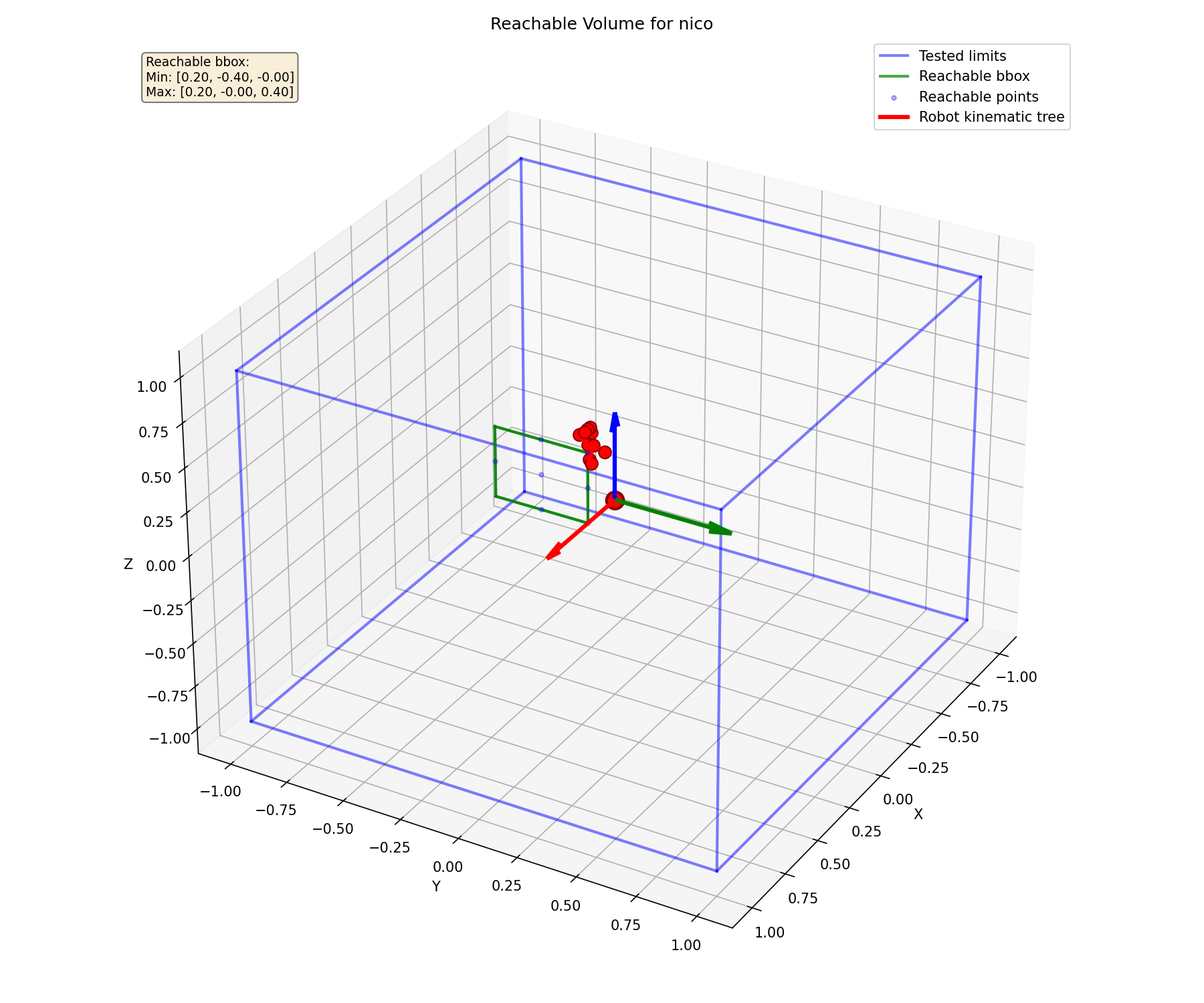
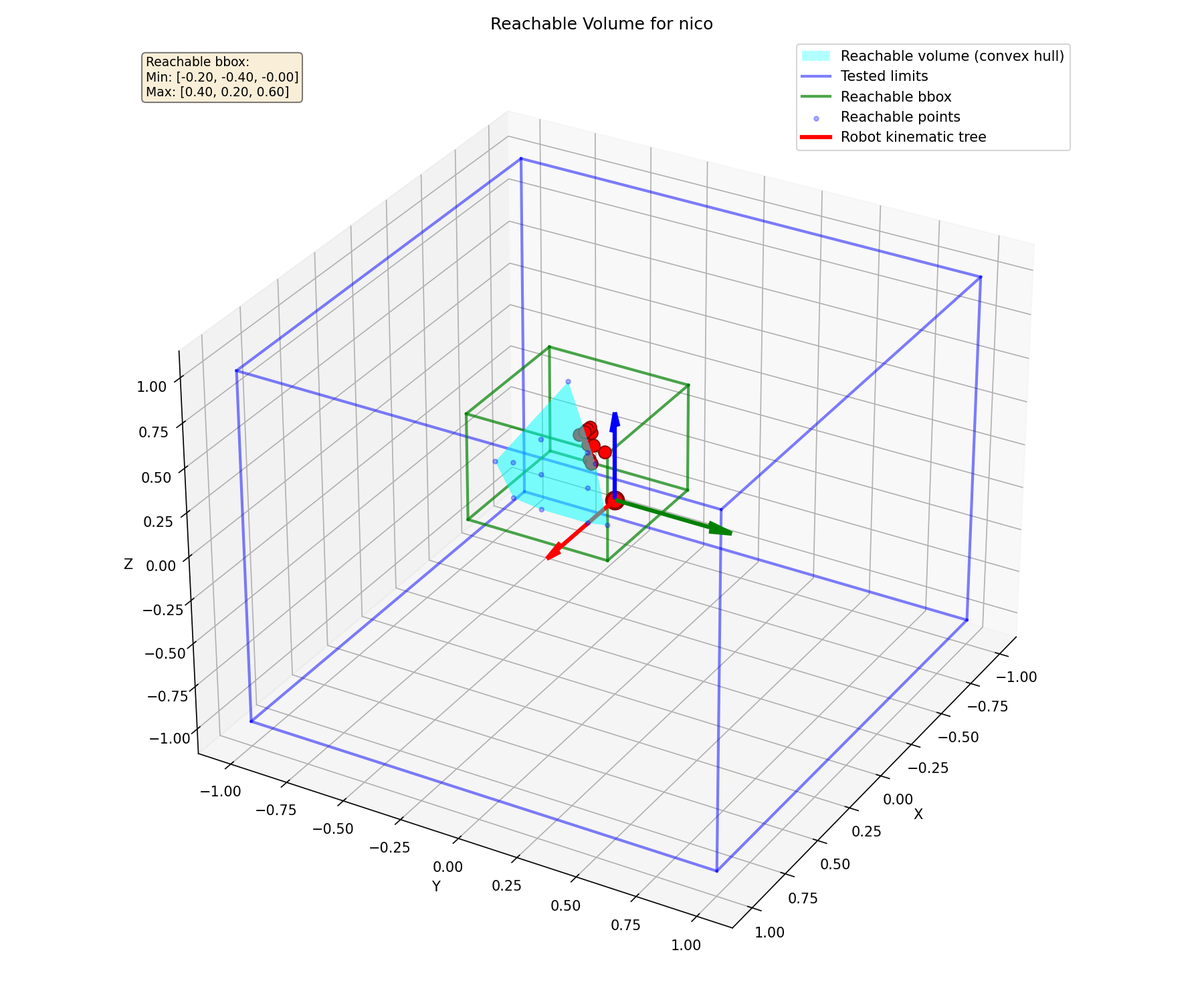
new reahable area for all grasp types calculated and stored in helpers

diff --git a/myGym/utils/helpers.py b/myGym/utils/helpers.py
@@ -60,38 +60,38 @@ def get_workspace_dict():
 
 def get_robot_dict():
     r_dict =   {
-                             'g1': {'path': '/envs/robots/unitree/g1_mygym.urdf', 'position': np.array([-0.3, 0.0, 0.07]), 'orientation': [0.0, 0.0, 0.0], 'default_joint_ori': [0.33, -0.11, -0.16, 0.69, -1.42, -0.89, -0.17, -0.01, 0.19, 0.39, 0.72, 0.0, 0.0], 'ee_pos': [0.0, -0.2734, 0.3939], 'ee_ori': [-0.0075, -0.0165, 0.049], 'ee_quat_ori': [-0.0035, -0.0083, 0.0245, 0.9997], 'fixed': True, 'volume': [[-0.8, -0.6, -0.0], [0.4, 0.2, 0.8]]},
-                             'g16DOF': {'path': '/envs/robots/unitree/g1_mygym6DOFG.urdf', 'position': np.array([-0.3, 0.0, 0.07]), 'orientation': [0.0, 0.0, 0.0], 'default_joint_ori': [0.33, -0.11, -0.16, 0.69, -1.42, -0.89, -0.17, -0.01, 0.19, 0.39, 0.72, 0.0, 0.0, 0.0, 0.0, 0.0], 'ee_pos': [0.0006, -0.2734, 0.3937], 'ee_ori': [-0.0091, -0.0161, 0.0494], 'ee_quat_ori': [-0.0044, -0.0081, 0.0247, 0.9997], 'fixed': True, 'volume': [[-0.8, -0.6, -0.0], [0.4, 0.2, 0.8]]},
-                             'g1_loose': {'path': '/envs/robots/unitree/g1_mygym_full.urdf', 'position': np.array([-0.3, 0.0, 0.07]), 'orientation': [0.0, 0.0, 0.0], 'default_joint_ori': [0.01, 0.01, -0.01, 0.04, 0.1, 0.35, -0.08, -0.02, -0.18, 0.25, 0.94, 0.17, 0.39, 0.62, -0.2, 0.12, -0.72, 0.0, 0.0, -1.04, -0.72, -0.61, 1.83, -1.85, -0.86, -0.03, 0.72, 0.0, 0.0], 'ee_pos': [0.0129, -0.2624, 0.1747], 'ee_ori': [0.2727, 0.3219, 0.3109], 'ee_quat_ori': [0.108, 0.1776, 0.1299, 0.9695], 'fixed': False},
-                             'g1_rotslide': {'path': '/envs/robots/unitree/g1_mygym_rotslide.urdf', 'position': np.array([-0.3, 0.0, 0.07]), 'orientation': [0.0, 0.0, 0.0], 'default_joint_ori': [-0.11, -0.01, 0.09, 0.25, -0.38, 0.07, -0.66, -0.36, -0.53, 0.29, -1.19, 0.04, 0.59, 0.2, 0.21, 0.06], 'ee_pos': [0.145, -0.1958, 0.4099], 'ee_ori': [-0.0065, 0.0578, 0.0098], 'ee_quat_ori': [-0.0034, 0.0289, 0.005, 0.9996], 'fixed': True, 'volume': [[-1.0, -0.8, -0.0], [0.2, 0.8, 0.8]]},
-                             'gummi': {'path': '/envs/robots/gummi_arm/urdf/gummi.urdf', 'position': np.array([0.0, 0.0, 0.0]), 'orientation': [0.0, 0.0, 0.0], 'default_joint_ori': [-0.34, 0.6, -0.08, 0.03, -0.75, 2.89, -0.83, 0.0, 0.0, 0.0, 0.0, 0.0], 'ee_pos': [0.3804, -0.201, 0.529], 'ee_ori': [-0.0138, 0.0298, -0.0144], 'ee_quat_ori': [-0.0068, 0.0149, -0.0071, 0.9998], 'fixed': True, 'volume': [[-0.6, -0.6, 0.4], [0.4, -0.0, 0.8]]},
+                             'g1': {'path': '/envs/robots/unitree/g1_mygym.urdf', 'position': np.array([-0.3, 0.0, 0.07]), 'orientation': [0.0, 0.0, 0.0], 'default_joint_ori': [0.33, -0.11, -0.16, 0.69, -1.42, -0.89, -0.17, -0.01, 0.19, 0.39, 0.72, 0.0, 0.0], 'ee_pos': [0.0, -0.2734, 0.3939], 'ee_ori': [-0.0075, -0.0165, 0.049], 'ee_quat_ori': [-0.0035, -0.0083, 0.0245, 0.9997], 'fixed': True, 'volume': [[-0.8, -0.6, -0.0], [0.4, 0.2, 0.8]], 'reachable': [-0.8, 0.4, -0.6, 0.2, -0.0, 0.8], 'reachable_top': [-0.4, 0.4, -0.4, -0.0, -0.0, 0.4], 'reachable_left': [-0.4, 0.4, -0.4, 0.4, -0.0, 0.6], 'reachable_right': [-0.4, 0.2, -0.4, 0.2, 0.2, 0.4], 'reachable_back': [-0.8, 0.2, -0.4, 0.4, 0.4, 0.6], 'reachable_front': [-0.6, -0.4, -0.4, 0.4, 0.2, 0.4], 'reachable_bottom': [-0.6, -0.0, -0.2, 0.2, 0.2, 0.4]},
+                             'g16DOF': {'path': '/envs/robots/unitree/g1_mygym6DOFG.urdf', 'position': np.array([-0.3, 0.0, 0.07]), 'orientation': [0.0, 0.0, 0.0], 'default_joint_ori': [0.33, -0.11, -0.16, 0.69, -1.42, -0.89, -0.17, -0.01, 0.19, 0.39, 0.72, 0.0, 0.0, 0.0, 0.0, 0.0], 'ee_pos': [0.0006, -0.2734, 0.3937], 'ee_ori': [-0.0091, -0.0161, 0.0494], 'ee_quat_ori': [-0.0044, -0.0081, 0.0247, 0.9997], 'fixed': True, 'volume': [[-0.8, -0.6, -0.0], [0.4, 0.2, 0.8]], 'reachable': [-0.8, 0.4, -0.6, 0.2, -0.0, 0.8], 'reachable_top': [-0.4, 0.4, -0.4, -0.0, -0.0, 0.4], 'reachable_left': [-0.4, 0.4, -0.4, 0.4, -0.0, 0.6], 'reachable_right': [-0.4, 0.2, -0.4, 0.2, 0.2, 0.4], 'reachable_back': [-0.8, 0.2, -0.4, 0.4, 0.4, 0.6], 'reachable_front': [-0.6, -0.4, -0.4, 0.4, 0.2, 0.4], 'reachable_bottom': [-0.6, -0.0, -0.2, 0.2, 0.2, 0.4]},
+                             'g1_loose': {'path': '/envs/robots/unitree/g1_mygym_full.urdf', 'position': np.array([-0.3, 0.0, 0.07]), 'orientation': [0.0, 0.0, 0.0], 'default_joint_ori': [0.01, 0.01, -0.01, 0.04, 0.1, 0.35, -0.08, -0.02, -0.18, 0.25, 0.94, 0.17, 0.39, 0.62, -0.2, 0.12, -0.72, 0.0, 0.0, -1.04, -0.72, -0.61, 1.83, -1.85, -0.86, -0.03, 0.72, 0.0, 0.0], 'ee_pos': [0.0129, -0.2624, 0.1747], 'ee_ori': [0.2727, 0.3219, 0.3109], 'ee_quat_ori': [0.108, 0.1776, 0.1299, 0.9695], 'fixed': False, 'reachable': [-0.6, -0.6, -0.2, -0.2, 0.4, 0.4]},
+                             'g1_rotslide': {'path': '/envs/robots/unitree/g1_mygym_rotslide.urdf', 'position': np.array([-0.3, 0.0, 0.07]), 'orientation': [0.0, 0.0, 0.0], 'default_joint_ori': [-0.11, -0.01, 0.09, 0.25, -0.38, 0.07, -0.66, -0.36, -0.53, 0.29, -1.19, 0.04, 0.59, 0.2, 0.21, 0.06], 'ee_pos': [0.145, -0.1958, 0.4099], 'ee_ori': [-0.0065, 0.0578, 0.0098], 'ee_quat_ori': [-0.0034, 0.0289, 0.005, 0.9996], 'fixed': True, 'volume': [[-1.0, -0.8, -0.0], [0.2, 0.8, 0.8]], 'reachable': [-1.0, 0.2, -0.8, 0.8, -0.0, 0.8], 'reachable_top': [-0.8, 0.2, -0.6, 0.4, -0.0, 0.4], 'reachable_left': [-1.0, 0.2, -0.6, 0.4, -0.0, 0.6], 'reachable_right': [-0.2, -0.0, 0.2, 0.2, 0.4, 0.4], 'reachable_front': [-1.0, -0.2, -0.4, 0.8, -0.0, 0.2], 'reachable_bottom': [-0.8, -0.2, -0.2, 0.4, 0.4, 0.4]},
+                             'gummi': {'path': '/envs/robots/gummi_arm/urdf/gummi.urdf', 'position': np.array([0.0, 0.0, 0.0]), 'orientation': [0.0, 0.0, 0.0], 'default_joint_ori': [-0.34, 0.6, -0.08, 0.03, -0.75, 2.89, -0.83, 0.0, 0.0, 0.0, 0.0, 0.0], 'ee_pos': [0.3804, -0.201, 0.529], 'ee_ori': [-0.0138, 0.0298, -0.0144], 'ee_quat_ori': [-0.0068, 0.0149, -0.0071, 0.9998], 'fixed': True, 'volume': [[-0.6, -0.6, 0.4], [0.4, -0.0, 0.8]], 'reachable': [-0.6, 0.4, -0.6, -0.0, 0.4, 0.8], 'reachable_top': [-0.4, 0.6, -0.2, -0.2, -0.0, 0.6], 'reachable_left': [0.6, 0.6, -0.4, -0.0, 0.2, 0.2], 'reachable_right': [0.4, 0.6, -0.2, 0.2, -0.0, 0.6], 'reachable_back': [-0.4, 0.6, -0.4, -0.2, 0.2, 0.6], 'reachable_front': [-0.4, 0.6, -0.6, -0.0, -0.2, 0.2], 'reachable_bottom': [-0.6, -0.4, -0.6, -0.4, 0.4, 0.4]},
                              'hsr': {'path': '/envs/robots/hsr/hsrb4s.urdf', 'position': np.array([-0.5, 0.0, -0.72]), 'orientation': [0.0, 0.0, 0.0], 'default_joint_ori': [0.34, 0.01, 0.0, 0.69, -0.66, 0.0, -1.01, -0.01, 0.57, 0.48, 0.26, -0.24, -0.08, 0.29, 0.32, -0.35, -0.2], 'ee_pos': [0.0817, 0.0451, 0.5442], 'ee_ori': [-1.6954, -1.4684, 0.069], 'ee_quat_ori': [-0.541, -0.4623, -0.4851, 0.5083], 'fixed': True},
                              'human': {'path': '/envs/robots/real_hands/humanoid_with_hands.urdf', 'position': np.array([1.7, 0.0, 0.77]), 'orientation': [0.0, 0.0, -1.5707963267948966], 'fixed': True},
-                             'icub': {'path': '/envs/robots/iCub/icub.urdf', 'position': np.array([-0.3, 0.0, 0.0]), 'orientation': [0.0, 0.0, 3.14], 'default_joint_ori': [-1.61, 1.27, 1.4, 1.42, 0.06, 0.44, 0.14, 1.34], 'ee_pos': [0.0008, -0.1995, 0.2007], 'ee_ori': [0.0162, -0.0348, -0.0002], 'ee_quat_ori': [0.0081, -0.0174, 0.0, 0.9998], 'fixed': True, 'volume': [[-0.4, -0.4, 0.2], [-0.0, -0.0, 0.2]]},
-                             'icubfull': {'path': '/envs/robots/iCub/icubfull.urdf', 'position': np.array([-0.3, 0.0, 0.0]), 'orientation': [0.0, 0.0, 3.14], 'default_joint_ori': [0.17, 1.7, -0.12, 0.26, 0.0, 0.0, 0.0, 0.0, 0.0, 0.0, 0.0, 0.0], 'ee_pos': [-0.1479, -0.3618, 0.1984], 'ee_ori': [-1.7368, 0.1746, 2.1151], 'ee_quat_ori': [0.4224, 0.6348, -0.5933, -0.258], 'fixed': True, 'volume': [[-0.4, -0.2, 0.4], [-0.2, -0.2, 0.4]]},
-                             'jaco_gripper': {'path': '/envs/robots/jaco_arm/jaco/urdf/jaco_robotiq_fixed.urdf', 'position': np.array([0.0, 0.0, 0.0]), 'orientation': [0.0, 0.0, 0.0], 'default_joint_ori': [-1.5, 3.56, -0.04, 4.13, -0.03, 0.57, 0.01, 0.0, 0.0, -0.88, -0.88], 'ee_pos': [-0.0005, 0.0014, 0.6214], 'ee_ori': [-0.0005, 0.0001, 0.0002], 'ee_quat_ori': [-0.0003, 0.0, 0.0001, 1.0], 'fixed': True, 'volume': [[-0.8, -0.2, -0.4], [0.8, 0.8, 1.0]]},
-                             'kuka': {'path': '/envs/robots/kuka_magnetic_gripper_sdf/kuka_magnetic.urdf', 'position': np.array([0.0, 0.0, 0.0]), 'orientation': [0.0, 0.0, 0.0], 'default_joint_ori': [0.41, 0.17, 2.59, 0.86, 0.1, -2.09, 3.05], 'ee_pos': [0.4105, -0.0007, 0.7563], 'ee_ori': [-0.0035, -0.0396, 0.0047], 'ee_quat_ori': [-0.0017, -0.0198, 0.0023, 0.9998], 'fixed': True, 'volume': [[-0.6, -0.8, -0.4], [1.0, 0.8, 1.0]]},
-                             'kuka_push': {'path': '/envs/robots/kuka_magnetic_gripper_sdf/kuka_push.urdf', 'position': np.array([0.0, 0.0, 0.0]), 'orientation': [0.0, 0.0, 0.0], 'default_joint_ori': [0.36, -0.13, -0.29, -1.22, -0.05, 2.05, 0.05], 'ee_pos': [0.3053, -0.0, 0.7789], 'ee_ori': [-0.01, 0.0, 0.0046], 'ee_quat_ori': [-0.005, -0.0, 0.0023, 1.0], 'fixed': True, 'volume': [[-0.6, -0.8, -0.4], [0.8, 0.8, 1.0]]},
-                             'kuka_gripper': {'path': '/envs/robots/kuka_gripper/kuka_gripper.urdf', 'position': np.array([0.0, 0.0, 0.0]), 'orientation': [0.0, 0.0, 0.0], 'default_joint_ori': [0.0, -0.38, 0.0, -1.46, 0.0, 2.05, 0.0, 1.57, 0.0, 1.57, 0.0], 'ee_pos': [0.1997, 0.0, 0.7076], 'ee_ori': [0.0, -0.0132, 0.0], 'ee_quat_ori': [0.0, -0.0066, 0.0, 1.0], 'fixed': True, 'volume': [[-0.6, -0.8, -0.4], [1.0, 0.8, 1.0]]},
-                             'leachy': {'path': '/envs/robots/pollen/reachy/urdf/leachy.urdf', 'position': np.array([0.0, 0.0, 0.32]), 'orientation': [0.0, 0.0, 0.0], 'default_joint_ori': [-0.46, 1.1, -1.57, -1.11, 1.53, 0.43, 0.0, 0.0], 'ee_pos': [0.457, 0.3629, 0.4495], 'ee_ori': [0.0433, 0.0434, 0.0087], 'ee_quat_ori': [0.0215, 0.0218, 0.0039, 0.9995], 'fixed': True, 'volume': [[-0.4, -0.2, 0.2], [0.6, 0.6, 0.8]]},
-                             'nico': {'path': '/envs/robots/nico/nico_grasper.urdf', 'position': np.array([0.0, 0.0, 0.0]), 'orientation': [0.0, 0.0, 0.0], 'default_joint_ori': [-0.29, 0.66, 0.78, 1.32, 0.57, 0.79, 0.0, 0.0, 0.0, 0.0], 'ee_pos': [0.1955, -0.2696, 0.2666], 'ee_ori': [0.0952, -0.0253, 0.0274], 'ee_quat_ori': [0.0477, -0.012, 0.0143, 0.9987], 'fixed': True, 'volume': [[0.2, -0.4, -0.0], [0.2, -0.0, 0.4]]},
-                             'panda': {'path': '/envs/robots/franka_emika/panda/urdf/panda1.urdf', 'position': np.array([0.0, 0.0, 0.0]), 'orientation': [0.0, 0.0, 0.0], 'default_joint_ori': [2.97, 0.31, -2.84, -1.86, 1.66, 3.71, 1.91, 0.06, 0.06], 'ee_pos': [0.3262, -0.0002, 0.5358], 'ee_ori': [-0.0006, -0.0093, -0.0079], 'ee_quat_ori': [-0.0003, -0.0047, -0.0039, 1.0], 'fixed': True, 'volume': [[-0.2, -0.2, -0.0], [0.6, 0.2, 1.0]]},
-                             'panda_boxgripper': {'path': '/envs/robots/franka_emika/panda/urdf/panda_cgripper.urdf', 'position': np.array([0.0, 0.0, 0.0]), 'orientation': [0.0, 0.0, 0.0], 'default_joint_ori': [-1.48, -0.36, 0.12, -1.93, 1.61, 3.48, 2.22, 0.1, 0.1], 'ee_pos': [-0.0005, -0.328, 0.4827], 'ee_ori': [-0.0032, -0.0006, -1.5701], 'ee_quat_ori': [-0.0013, 0.0009, -0.7068, 0.7074], 'fixed': True, 'volume': [[-0.4, -0.6, -0.0], [0.4, 0.4, 1.0]]},
-                             'panda_sgripper': {'path': '/envs/robots/franka_emika/panda_moveit/urdf/panda2.urdf', 'position': np.array([0.0, 0.0, 0.0]), 'orientation': [0.0, 0.0, 0.0], 'default_joint_ori': [0.0, -0.77, 0.0, -1.14, 0.0, 0.41, 0.91, 0.04, 0.04], 'ee_pos': [-0.0026, 0.0, 0.8018], 'ee_ori': [-0.005, 0.0381, 3.0169], 'ee_quat_ori': [-0.0192, -0.0013, 0.9979, 0.0622], 'fixed': True, 'volume': [[-0.4, -0.6, -0.2], [0.8, 0.6, 1.0]]},
-                             'panda_gripper': {'path': '/envs/robots/franka_emika/panda_bullet/panda.urdf', 'position': np.array([0.0, 0.0, 0.0]), 'orientation': [0.0, 0.0, 0.0], 'default_joint_ori': [-0.28, -0.84, 0.0, -1.3, 0.0, 0.45, 2.86, 0.07, 0.07], 'ee_pos': [0.0022, -0.0006, 0.7782], 'ee_ori': [0.0028, 0.008, 0.0016], 'ee_quat_ori': [0.0014, 0.004, 0.0008, 1.0], 'fixed': True, 'volume': [[-0.4, -0.6, -0.2], [0.8, 0.6, 1.0]]},
-                             'pepper': {'path': '/envs/robots/pepper/pepper.urdf', 'position': np.array([-0.2, 0.0, -0.72]), 'orientation': [0.0, 0.0, 0.0], 'default_joint_ori': [-1.37, -0.24, -1.52, 1.54, 1.34, 1.57, 1.57, 1.57, 1.57], 'ee_pos': [0.0005, -0.2104, 0.3316], 'ee_ori': [0.0064, 0.0064, 0.0043], 'ee_quat_ori': [0.0032, 0.0032, 0.0021, 1.0], 'fixed': True, 'volume': [[-0.2, -0.4, 0.2], [-0.0, -0.0, 0.4]]},
-                             'reachy': {'path': '/envs/robots/pollen/reachy/urdf/reachy.urdf', 'position': np.array([0.0, 0.0, 0.0]), 'orientation': [0.0, 0.0, 0.0], 'default_joint_ori': [1.51, -2.8, 1.27, -1.44, -0.94, -1.22, 1.0, 0.0, 0.0], 'ee_pos': [0.0941, -0.4512, 0.4093], 'ee_ori': [0.007, 0.0032, 0.0013], 'ee_quat_ori': [0.0035, 0.0016, 0.0006, 1.0], 'fixed': True, 'volume': [[-0.0, -0.6, -0.0], [0.4, -0.2, 0.8]]},
-                             'tiago_single': {'path': '/envs/robots/tiago/tiago_pal_gripper.urdf', 'position': np.array([-0.3, 0.0, -0.72]), 'orientation': [0.0, 0.0, 0.0], 'default_joint_ori': [0.33, 0.0, 1.09, -0.71, 1.21, -1.86, 1.57, -0.93, 0.05, 0.05], 'ee_pos': [0.0078, -0.5147, 0.374], 'ee_ori': [0.0217, -0.0042, 0.0149], 'ee_quat_ori': [0.0109, -0.002, 0.0075, 0.9999], 'fixed': True, 'volume': [[-0.0, -0.8, -0.0], [0.6, 0.6, 0.6]]},
-                             'tiago_dual': {'path': '/envs/robots/tiago/tiago_dual_mygym.urdf', 'position': np.array([-0.3, 0.0, -0.72]), 'orientation': [0.0, 0.0, 0.0], 'default_joint_ori': [0.35, 0.11, -1.18, 1.61, 1.72, 1.18, -1.41, 1.7, 0.05, 0.05], 'ee_pos': [0.0009, -0.3985, 0.3127], 'ee_ori': [0.0074, -0.0071, 0.001], 'ee_quat_ori': [0.0037, -0.0036, 0.0005, 1.0], 'fixed': True, 'volume': [[-0.8, -1.0, -0.0], [0.6, 0.2, 0.6]]},
-                             'tiago_dual_fix': {'path': '/envs/robots/tiago/tiago_dual_mygym_fix.urdf', 'position': np.array([-0.3, 0.0, -0.72]), 'orientation': [0.0, 0.0, 0.0], 'default_joint_ori': [0.18, 0.12, -1.18, 1.62, 1.72, 1.18, -1.41, 1.7, 0.05, 0.05], 'ee_pos': [0.0022, -0.3983, 0.1365], 'ee_ori': [0.0069, -0.0033, 0.0018], 'ee_quat_ori': [0.0035, -0.0017, 0.0009, 1.0], 'fixed': True, 'volume': [[-0.6, -0.8, 0.2], [0.4, 0.2, 0.4]]},
-                             'tiago_dual_rot': {'path': '/envs/robots/tiago/tiago_dual_mygym_rot.urdf', 'position': np.array([-0.3, 0.0, -0.72]), 'orientation': [0.0, 0.0, 0.0], 'default_joint_ori': [0.0, 0.35, 0.11, -1.18, 1.61, 1.72, 1.18, -1.41, 1.7, 0.05, 0.05], 'ee_pos': [0.0009, -0.3985, 0.3127], 'ee_ori': [0.0074, -0.0071, 0.0011], 'ee_quat_ori': [0.0037, -0.0036, 0.0005, 1.0], 'fixed': True, 'volume': [[-1.0, -1.0, -0.0], [0.8, 0.8, 0.6]]},
-                             'tiago_dual_rotslide': {'path': '/envs/robots/tiago/tiago_dual_mygym_rotslide.urdf', 'position': np.array([-0.3, 0.0, -0.72]), 'orientation': [0.0, 0.0, 0.0], 'default_joint_ori': [0.0, 0.0, 0.35, 0.11, -1.18, 1.61, 1.72, 1.18, -1.41, 1.7, 0.05, 0.05], 'ee_pos': [0.0009, -0.3985, 0.3127], 'ee_ori': [0.0074, -0.0071, 0.0011], 'ee_quat_ori': [0.0037, -0.0036, 0.0005, 1.0], 'fixed': True, 'volume': [[-0.6, -1.0, -0.0], [0.8, 0.4, 0.4]]},
-                             'tiago_dual_rotslide2': {'path': '/envs/robots/tiago/tiago_dual_mygym_rotslide2.urdf', 'position': np.array([-0.3, 0.0, -0.72]), 'orientation': [0.0, 0.0, 0.0], 'default_joint_ori': [0.0, 0.0, 0.0, 0.35, 0.11, -1.18, 1.61, 1.72, 1.18, -1.41, 1.7, 0.05, 0.05], 'ee_pos': [0.0009, -0.3985, 0.3127], 'ee_ori': [0.0074, -0.0071, 0.001], 'ee_quat_ori': [0.0037, -0.0036, 0.0005, 1.0], 'fixed': True, 'volume': [[-1.0, -1.0, -0.0], [-0.0, 0.2, 0.2]]},
-                             'ur3': {'path': '/envs/robots/universal_robots/urdf/ur3.urdf', 'position': np.array([0.0, -0.02, -0.041]), 'orientation': [0.0, 0.0, 0.0], 'default_joint_ori': [0.6, -1.9, 0.67, -0.34, -1.57, 0.6], 'ee_pos': [-0.0, 0.1158, 0.4104], 'ee_ori': [-0.0, 0.0001, -0.0], 'ee_quat_ori': [-0.0, 0.0, -0.0, 1.0], 'fixed': True, 'volume': [[-0.2, -0.2, -0.0], [0.4, 0.2, 0.4]]},
-                             'ur10': {'path': '/envs/robots/universal_robots/urdf/ur10.urdf', 'position': np.array([0.0, 0.0, 0.0]), 'orientation': [0.0, 0.0, 0.0], 'default_joint_ori': [-1.34, -2.16, 1.07, -0.48, -1.57, -1.34], 'ee_pos': [0.1686, 0.0, 1.0], 'ee_ori': [-0.0003, 0.0, -0.0], 'ee_quat_ori': [-0.0001, 0.0, -0.0, 1.0], 'fixed': True, 'volume': [[-1.0, -1.0, -1.0], [1.0, 1.0, 1.0]]},
-                             'walker': {'path': '/envs/robots/ubtech/tiangong2pro_urdf/urdf/tiangong2.0_pro_with_hands.urdf', 'position': np.array([-0.3, 0.0, 0.0]), 'orientation': [0.0, 0.0, 0], 'default_joint_ori': [-0.01, 0.79, -1.68, -1.22, -1.92, -0.14, 0.48, 0.38, -0.0, 0.35, 0.18, 0.09, 0.08], 'ee_pos': [0.1479, -0.4106, 0.4994], 'ee_ori': [0.0004, 0.013, 0.0004], 'ee_quat_ori': [0.0002, 0.0065, 0.0002, 1.0], 'volume': [[-1.0, -0.8, -0.0], [0.6, 0.6, 1.0]]},
-                             'S2': {'path': '/envs/robots/ubtech/S2.urdf', 'position': np.array([-0.3, 0.0, 0.2]), 'orientation': [0.0, 0.0, 0], 'default_joint_ori': [-0.04, 0.35, -1.41, -0.34, -1.56, 0.07, -0.09, 0.06, 0.34, 0.07, 0.07, 0.08, 0.76], 'ee_pos': [0.1209, -0.5598, 0.4936], 'ee_ori': [-0.0011, 0.0755, -0.0131], 'ee_quat_ori': [-0.0003, 0.0378, -0.0065, 0.9993], 'volume': [[-1.0, -0.8, -0.0], [0.6, 0.8, 1.0]]},
-                             'yumi': {'path': '/envs/robots/abb/yumi/urdf/yumi.urdf', 'position': np.array([0.0, 0.0, 0.0]), 'orientation': [0.0, 0.0, 0.0], 'default_joint_ori': [-0.4, -2.29, -0.13, 0.19, -0.95, 2.41, -3.99, 0.02, 0.02, 1.08, -1.68, 1.05, -0.09, 0.49, 2.07, -1.51, 0.03, 0.02], 'ee_pos': [-0.0006, 0.3054, 0.7052], 'ee_ori': [-0.0, 0.0001, 0.0001], 'ee_quat_ori': [-0.0, 0.0, 0.0001, 1.0], 'fixed': True},
+                             'icub': {'path': '/envs/robots/iCub/icub.urdf', 'position': np.array([-0.3, 0.0, 0.0]), 'orientation': [0.0, 0.0, 3.14], 'default_joint_ori': [-1.61, 1.27, 1.4, 1.42, 0.06, 0.44, 0.14, 1.34], 'ee_pos': [0.0008, -0.1995, 0.2007], 'ee_ori': [0.0162, -0.0348, -0.0002], 'ee_quat_ori': [0.0081, -0.0174, 0.0, 0.9998], 'fixed': True, 'volume': [[-0.4, -0.4, 0.2], [-0.0, -0.0, 0.2]], 'reachable': [-0.4, -0.0, -0.4, -0.0, 0.2, 0.2], 'reachable_top': [-0.0, -0.0, -0.2, -0.0, 0.2, 0.2], 'reachable_left': [-0.2, -0.0, -0.4, -0.2, 0.2, 0.2], 'reachable_right': [-0.0, -0.0, -0.2, -0.2, 0.2, 0.2], 'reachable_back': [-0.4, -0.2, -0.4, -0.2, 0.4, 0.4]},
+                             'icubfull': {'path': '/envs/robots/iCub/icubfull.urdf', 'position': np.array([-0.3, 0.0, 0.0]), 'orientation': [0.0, 0.0, 3.14], 'default_joint_ori': [0.17, 1.7, -0.12, 0.26, 0.0, 0.0, 0.0, 0.0, 0.0, 0.0, 0.0, 0.0], 'ee_pos': [-0.1479, -0.3618, 0.1984], 'ee_ori': [-1.7368, 0.1746, 2.1151], 'ee_quat_ori': [0.4224, 0.6348, -0.5933, -0.258], 'fixed': True, 'volume': [[-0.4, -0.2, 0.4], [-0.2, -0.2, 0.4]], 'reachable': [-0.4, -0.2, -0.2, -0.2, 0.4, 0.4], 'reachable_right': [-0.0, -0.0, -0.2, -0.2, -0.0, -0.0], 'reachable_back': [-0.0, -0.0, -0.0, -0.0, -0.0, -0.0]},
+                             'jaco_gripper': {'path': '/envs/robots/jaco_arm/jaco/urdf/jaco_robotiq_fixed.urdf', 'position': np.array([0.0, 0.0, 0.0]), 'orientation': [0.0, 0.0, 0.0], 'default_joint_ori': [-1.5, 3.56, -0.04, 4.13, -0.03, 0.57, 0.01, 0.0, 0.0, -0.88, -0.88], 'ee_pos': [-0.0005, 0.0014, 0.6214], 'ee_ori': [-0.0005, 0.0001, 0.0002], 'ee_quat_ori': [-0.0003, 0.0, 0.0001, 1.0], 'fixed': True, 'volume': [[-0.8, -0.2, -0.4], [0.8, 0.8, 1.0]], 'reachable': [-0.8, 0.8, -0.2, 0.8, -0.4, 1.0], 'reachable_top': [-0.6, 0.6, -0.2, 0.6, -0.6, 0.6], 'reachable_left': [-0.6, 0.6, -0.4, 1.0, -0.4, 1.0], 'reachable_right': [-0.6, 0.6, -0.8, 0.2, -0.4, 0.8], 'reachable_back': [-0.4, 1.0, -0.6, 0.6, -0.2, 1.0], 'reachable_front': [-1.0, 0.2, -0.6, 0.6, -0.2, 1.0], 'reachable_bottom': [-0.6, 0.6, -0.6, 0.6, -0.0, 1.0]},
+                             'kuka': {'path': '/envs/robots/kuka_magnetic_gripper_sdf/kuka_magnetic.urdf', 'position': np.array([0.0, 0.0, 0.0]), 'orientation': [0.0, 0.0, 0.0], 'default_joint_ori': [0.41, 0.17, 2.59, 0.86, 0.1, -2.09, 3.05], 'ee_pos': [0.4105, -0.0007, 0.7563], 'ee_ori': [-0.0035, -0.0396, 0.0047], 'ee_quat_ori': [-0.0017, -0.0198, 0.0023, 0.9998], 'fixed': True, 'volume': [[-0.6, -0.8, -0.4], [1.0, 0.8, 1.0]], 'reachable': [-0.6, 1.0, -0.8, 0.8, -0.4, 1.0], 'reachable_top': [-0.6, 0.8, -0.6, 0.8, -0.4, 0.8], 'reachable_left': [-0.6, 0.6, -0.4, 1.0, -0.2, 1.0], 'reachable_right': [-0.8, 0.8, -1.0, 0.2, -0.2, 1.0], 'reachable_back': [-0.4, 1.0, -0.6, 0.8, -0.2, 1.0], 'reachable_front': [-1.0, 0.4, -0.8, 0.8, -0.2, 1.0], 'reachable_bottom': [-0.8, 0.8, -0.6, 0.8, -0.0, 1.0]},
+                             'kuka_push': {'path': '/envs/robots/kuka_magnetic_gripper_sdf/kuka_push.urdf', 'position': np.array([0.0, 0.0, 0.0]), 'orientation': [0.0, 0.0, 0.0], 'default_joint_ori': [0.36, -0.13, -0.29, -1.22, -0.05, 2.05, 0.05], 'ee_pos': [0.3053, -0.0, 0.7789], 'ee_ori': [-0.01, 0.0, 0.0046], 'ee_quat_ori': [-0.005, -0.0, 0.0023, 1.0], 'fixed': True, 'volume': [[-0.6, -0.8, -0.4], [0.8, 0.8, 1.0]], 'reachable': [-0.6, 0.8, -0.8, 0.8, -0.4, 1.0], 'reachable_top': [-0.6, 0.8, -0.6, 0.8, -0.4, 0.8], 'reachable_left': [-0.8, 0.8, -0.4, 1.0, -0.2, 1.0], 'reachable_right': [-0.8, 0.8, -1.0, 0.4, -0.2, 1.0], 'reachable_back': [-0.4, 1.0, -0.8, 0.8, -0.2, 1.0], 'reachable_front': [-1.0, 0.4, -0.8, 0.8, -0.2, 1.0], 'reachable_bottom': [-0.8, 0.8, -0.8, 0.6, -0.0, 1.0]},
+                             'kuka_gripper': {'path': '/envs/robots/kuka_gripper/kuka_gripper.urdf', 'position': np.array([0.0, 0.0, 0.0]), 'orientation': [0.0, 0.0, 0.0], 'default_joint_ori': [0.0, -0.38, 0.0, -1.46, 0.0, 2.05, 0.0, 1.57, 0.0, 1.57, 0.0], 'ee_pos': [0.1997, 0.0, 0.7076], 'ee_ori': [0.0, -0.0132, 0.0], 'ee_quat_ori': [0.0, -0.0066, 0.0, 1.0], 'fixed': True, 'volume': [[-0.6, -0.8, -0.4], [1.0, 0.8, 1.0]], 'reachable': [-0.6, 1.0, -0.8, 0.8, -0.4, 1.0], 'reachable_top': [-0.4, 0.8, -0.6, 0.6, -0.4, 0.8], 'reachable_left': [-0.6, 0.8, -0.4, 1.0, -0.2, 1.0], 'reachable_right': [-0.8, 0.8, -1.0, 0.2, -0.2, 1.0], 'reachable_back': [-0.4, 1.0, -0.8, 0.8, -0.2, 1.0], 'reachable_front': [-1.0, 0.2, -0.8, 0.8, -0.2, 1.0], 'reachable_bottom': [-0.8, 0.8, -0.8, 0.6, 0.2, 1.0]},
+                             'leachy': {'path': '/envs/robots/pollen/reachy/urdf/leachy.urdf', 'position': np.array([0.0, 0.0, 0.32]), 'orientation': [0.0, 0.0, 0.0], 'default_joint_ori': [-0.46, 1.1, -1.57, -1.11, 1.53, 0.43, 0.0, 0.0], 'ee_pos': [0.457, 0.3629, 0.4495], 'ee_ori': [0.0433, 0.0434, 0.0087], 'ee_quat_ori': [0.0215, 0.0218, 0.0039, 0.9995], 'fixed': True, 'volume': [[-0.4, -0.2, 0.2], [0.6, 0.6, 0.8]], 'reachable': [-0.4, 0.6, -0.2, 0.6, 0.2, 0.8], 'reachable_top': [-0.2, 0.6, -0.0, 0.4, -0.2, 0.8], 'reachable_left': [0.2, 0.2, -0.0, -0.0, -0.2, -0.2], 'reachable_right': [0.2, 0.6, -0.0, 0.6, 0.2, 0.6], 'reachable_back': [0.4, 0.6, -0.0, 0.2, 0.4, 0.8], 'reachable_front': [0.6, 0.6, 0.2, 0.2, 0.4, 0.4]},
+                             'nico': {'path': '/envs/robots/nico/nico_grasper.urdf', 'position': np.array([0.0, 0.0, 0.0]), 'orientation': [0.0, 0.0, 0.0], 'default_joint_ori': [-0.29, 0.66, 0.78, 1.32, 0.57, 0.79, 0.0, 0.0, 0.0, 0.0], 'ee_pos': [0.1955, -0.2696, 0.2666], 'ee_ori': [0.0952, -0.0253, 0.0274], 'ee_quat_ori': [0.0477, -0.012, 0.0143, 0.9987], 'fixed': True, 'volume': [[0.2, -0.4, -0.0], [0.2, -0.0, 0.4]], 'reachable': [0.2, 0.2, -0.4, -0.0, -0.0, 0.4], 'reachable_top': [0.2, 0.4, -0.2, -0.2, 0.2, 0.2], 'reachable_left': [0.4, 0.4, -0.2, 0.2, 0.2, 0.4], 'reachable_right': [0.2, 0.2, -0.2, -0.2, 0.2, 0.2], 'reachable_back': [-0.0, -0.0, -0.2, -0.2, 0.6, 0.6], 'reachable_front': [-0.2, -0.2, -0.2, -0.2, -0.0, -0.0]},
+                             'panda': {'path': '/envs/robots/franka_emika/panda/urdf/panda1.urdf', 'position': np.array([0.0, 0.0, 0.0]), 'orientation': [0.0, 0.0, 0.0], 'default_joint_ori': [2.97, 0.31, -2.84, -1.86, 1.66, 3.71, 1.91, 0.06, 0.06], 'ee_pos': [0.3262, -0.0002, 0.5358], 'ee_ori': [-0.0006, -0.0093, -0.0079], 'ee_quat_ori': [-0.0003, -0.0047, -0.0039, 1.0], 'fixed': True, 'volume': [[-0.2, -0.2, -0.0], [0.6, 0.2, 1.0]], 'reachable': [-0.2, 0.6, -0.2, 0.2, -0.0, 1.0], 'reachable_top': [-0.0, 0.6, -0.8, 0.4, -0.0, 0.4], 'reachable_left': [-0.0, 0.6, -0.2, 0.2, -0.2, 0.8], 'reachable_right': [-0.8, 0.6, -0.6, 0.2, -0.0, 1.0], 'reachable_back': [-0.0, -0.0, -0.0, 0.6, 0.4, 1.0], 'reachable_front': [-0.4, -0.2, -0.8, 0.4, -0.0, 0.4], 'reachable_bottom': [-0.2, 0.6, -0.6, 0.6, 0.2, 0.8]},
+                             'panda_boxgripper': {'path': '/envs/robots/franka_emika/panda/urdf/panda_cgripper.urdf', 'position': np.array([0.0, 0.0, 0.0]), 'orientation': [0.0, 0.0, 0.0], 'default_joint_ori': [-1.48, -0.36, 0.12, -1.93, 1.61, 3.48, 2.22, 0.1, 0.1], 'ee_pos': [-0.0005, -0.328, 0.4827], 'ee_ori': [-0.0032, -0.0006, -1.5701], 'ee_quat_ori': [-0.0013, 0.0009, -0.7068, 0.7074], 'fixed': True, 'volume': [[-0.4, -0.6, -0.0], [0.4, 0.4, 1.0]], 'reachable': [-0.4, 0.4, -0.6, 0.4, -0.0, 1.0], 'reachable_top': [-0.6, 0.6, -0.8, 0.4, -0.0, 0.4], 'reachable_left': [-0.8, 0.6, -0.0, 0.6, -0.2, 0.8], 'reachable_right': [-0.4, 0.6, -0.6, 0.2, -0.0, 0.8], 'reachable_back': [-0.2, 0.2, -0.0, 0.4, 0.4, 1.0], 'reachable_front': [-0.6, -0.2, -0.8, -0.4, -0.0, 0.8], 'reachable_bottom': [-0.4, 0.4, -0.6, 0.8, 0.2, 0.6]},
+                             'panda_sgripper': {'path': '/envs/robots/franka_emika/panda_moveit/urdf/panda2.urdf', 'position': np.array([0.0, 0.0, 0.0]), 'orientation': [0.0, 0.0, 0.0], 'default_joint_ori': [0.0, -0.77, 0.0, -1.14, 0.0, 0.41, 0.91, 0.04, 0.04], 'ee_pos': [-0.0026, 0.0, 0.8018], 'ee_ori': [-0.005, 0.0381, 3.0169], 'ee_quat_ori': [-0.0192, -0.0013, 0.9979, 0.0622], 'fixed': True, 'volume': [[-0.4, -0.6, -0.2], [0.8, 0.6, 1.0]], 'reachable': [-0.4, 0.8, -0.6, 0.6, -0.2, 1.0], 'reachable_top': [-0.6, 0.8, -0.8, 0.8, -0.4, 0.8], 'reachable_left': [-0.8, 0.8, -0.4, 0.8, -0.2, 1.0], 'reachable_right': [-0.8, 0.8, -0.8, 0.4, -0.2, 1.0], 'reachable_back': [-0.4, 0.8, -0.8, 0.8, -0.2, 1.0], 'reachable_front': [-0.8, 0.4, -0.8, 0.6, -0.2, 1.0], 'reachable_bottom': [-0.8, 0.8, -0.8, 0.8, 0.2, 1.0]},
+                             'panda_gripper': {'path': '/envs/robots/franka_emika/panda_bullet/panda.urdf', 'position': np.array([0.0, 0.0, 0.0]), 'orientation': [0.0, 0.0, 0.0], 'default_joint_ori': [-0.28, -0.84, 0.0, -1.3, 0.0, 0.45, 2.86, 0.07, 0.07], 'ee_pos': [0.0022, -0.0006, 0.7782], 'ee_ori': [0.0028, 0.008, 0.0016], 'ee_quat_ori': [0.0014, 0.004, 0.0008, 1.0], 'fixed': True, 'volume': [[-0.4, -0.6, -0.2], [0.8, 0.6, 1.0]], 'reachable': [-0.4, 0.8, -0.6, 0.6, -0.2, 1.0], 'reachable_top': [-0.4, 0.8, -0.6, 0.6, -0.4, 0.8], 'reachable_left': [-0.4, 0.8, -0.4, 0.8, -0.0, 1.0], 'reachable_right': [-0.6, 0.8, -0.8, 0.4, -0.2, 1.0], 'reachable_back': [-0.4, 0.8, -0.8, 0.8, 0.2, 1.0], 'reachable_front': [-0.8, 0.4, -0.8, 0.8, -0.2, 1.0], 'reachable_bottom': [-0.8, 0.8, -0.6, 0.8, -0.0, 1.0]},
+                             'pepper': {'path': '/envs/robots/pepper/pepper.urdf', 'position': np.array([-0.2, 0.0, -0.72]), 'orientation': [0.0, 0.0, 0.0], 'default_joint_ori': [-1.37, -0.24, -1.52, 1.54, 1.34, 1.57, 1.57, 1.57, 1.57], 'ee_pos': [0.0005, -0.2104, 0.3316], 'ee_ori': [0.0064, 0.0064, 0.0043], 'ee_quat_ori': [0.0032, 0.0032, 0.0021, 1.0], 'fixed': True, 'volume': [[-0.2, -0.4, 0.2], [-0.0, -0.0, 0.4]], 'reachable': [-0.2, -0.0, -0.4, -0.0, 0.2, 0.4], 'reachable_right': [-0.0, -0.0, -0.2, -0.2, 0.4, 0.4]},
+                             'reachy': {'path': '/envs/robots/pollen/reachy/urdf/reachy.urdf', 'position': np.array([0.0, 0.0, 0.0]), 'orientation': [0.0, 0.0, 0.0], 'default_joint_ori': [1.51, -2.8, 1.27, -1.44, -0.94, -1.22, 1.0, 0.0, 0.0], 'ee_pos': [0.0941, -0.4512, 0.4093], 'ee_ori': [0.007, 0.0032, 0.0013], 'ee_quat_ori': [0.0035, 0.0016, 0.0006, 1.0], 'fixed': True, 'volume': [[-0.0, -0.6, -0.0], [0.4, -0.2, 0.8]], 'reachable': [-0.0, 0.4, -0.6, -0.2, -0.0, 0.8], 'reachable_top': [-0.4, 0.4, -0.6, 0.2, -0.4, 0.4], 'reachable_left': [-0.0, 0.6, -0.2, -0.0, -0.0, 0.4], 'reachable_right': [-0.0, 0.4, -0.8, -0.4, -0.2, 0.6], 'reachable_back': [-0.4, 0.6, -0.6, -0.0, -0.2, 0.8], 'reachable_front': [-0.6, 0.2, -0.6, -0.0, -0.2, 0.6], 'reachable_bottom': [-0.0, 0.6, -0.4, -0.0, 0.4, 1.0]},
+                             'tiago_single': {'path': '/envs/robots/tiago/tiago_pal_gripper.urdf', 'position': np.array([-0.3, 0.0, -0.72]), 'orientation': [0.0, 0.0, 0.0], 'default_joint_ori': [0.33, 0.0, 1.09, -0.71, 1.21, -1.86, 1.57, -0.93, 0.05, 0.05], 'ee_pos': [0.0078, -0.5147, 0.374], 'ee_ori': [0.0217, -0.0042, 0.0149], 'ee_quat_ori': [0.0109, -0.002, 0.0075, 0.9999], 'fixed': True, 'volume': [[-0.0, -0.8, -0.0], [0.6, 0.6, 0.6]], 'reachable': [-0.0, 0.6, -0.8, 0.6, -0.0, 0.6], 'reachable_top': [-0.0, 0.4, -0.6, 0.6, -0.2, 0.4], 'reachable_left': [-0.2, 0.4, -0.2, 0.8, -0.0, 0.8], 'reachable_right': [-0.2, 0.2, -0.8, -0.8, 0.4, 0.8], 'reachable_back': [0.2, 0.6, -0.6, 0.6, 0.2, 0.8], 'reachable_front': [-0.4, -0.2, -0.8, 0.6, -0.4, 0.8], 'reachable_bottom': [-0.2, 0.6, -0.2, 0.4, 0.2, 1.0]},
+                             'tiago_dual': {'path': '/envs/robots/tiago/tiago_dual_mygym.urdf', 'position': np.array([-0.3, 0.0, -0.72]), 'orientation': [0.0, 0.0, 0.0], 'default_joint_ori': [0.35, 0.11, -1.18, 1.61, 1.72, 1.18, -1.41, 1.7, 0.05, 0.05], 'ee_pos': [0.0009, -0.3985, 0.3127], 'ee_ori': [0.0074, -0.0071, 0.001], 'ee_quat_ori': [0.0037, -0.0036, 0.0005, 1.0], 'fixed': True, 'volume': [[-0.8, -1.0, -0.0], [0.6, 0.2, 0.6]], 'reachable': [-0.8, 0.6, -1.0, 0.2, -0.0, 0.6], 'reachable_top': [-0.6, 0.2, -0.8, -0.0, -0.2, 0.4], 'reachable_left': [-0.4, 0.4, -0.4, 0.2, -0.0, 0.8], 'reachable_right': [-1.0, 0.4, -1.0, -0.6, 0.2, 0.8], 'reachable_back': [-0.6, 0.6, -1.0, -0.0, -0.2, 1.0], 'reachable_front': [-1.0, -0.2, -0.8, -0.2, -0.2, 1.0], 'reachable_bottom': [-0.4, 0.4, -0.8, -0.2, 0.2, 1.0]},
+                             'tiago_dual_fix': {'path': '/envs/robots/tiago/tiago_dual_mygym_fix.urdf', 'position': np.array([-0.3, 0.0, -0.72]), 'orientation': [0.0, 0.0, 0.0], 'default_joint_ori': [0.18, 0.12, -1.18, 1.62, 1.72, 1.18, -1.41, 1.7, 0.05, 0.05], 'ee_pos': [0.0022, -0.3983, 0.1365], 'ee_ori': [0.0069, -0.0033, 0.0018], 'ee_quat_ori': [0.0035, -0.0017, 0.0009, 1.0], 'fixed': True, 'volume': [[-0.6, -0.8, 0.2], [0.4, 0.2, 0.4]], 'reachable': [-0.6, 0.4, -0.8, 0.2, 0.2, 0.4], 'reachable_top': [-0.4, 0.2, -0.6, -0.0, -0.0, 0.2], 'reachable_left': [-0.8, 0.2, -0.6, 0.2, -0.2, 0.6], 'reachable_right': [-1.0, 0.4, -1.0, -0.6, 0.4, 0.6], 'reachable_back': [-0.4, 0.4, -1.0, -0.4, 0.2, 0.8], 'reachable_front': [-1.0, -0.2, -0.8, -0.2, -0.2, 0.8], 'reachable_bottom': [-0.2, 0.2, -0.8, -0.6, 0.8, 0.8]},
+                             'tiago_dual_rot': {'path': '/envs/robots/tiago/tiago_dual_mygym_rot.urdf', 'position': np.array([-0.3, 0.0, -0.72]), 'orientation': [0.0, 0.0, 0.0], 'default_joint_ori': [0.0, 0.35, 0.11, -1.18, 1.61, 1.72, 1.18, -1.41, 1.7, 0.05, 0.05], 'ee_pos': [0.0009, -0.3985, 0.3127], 'ee_ori': [0.0074, -0.0071, 0.0011], 'ee_quat_ori': [0.0037, -0.0036, 0.0005, 1.0], 'fixed': True, 'volume': [[-1.0, -1.0, -0.0], [0.8, 0.8, 0.6]], 'reachable': [-1.0, 0.8, -1.0, 0.8, -0.0, 0.6], 'reachable_top': [-0.8, 0.6, -0.8, 0.4, -0.2, 0.6], 'reachable_left': [-0.4, 0.6, -0.4, 0.8, -0.0, 0.8], 'reachable_right': [-1.0, 0.6, -1.0, -0.4, 0.2, 0.8], 'reachable_back': [-0.6, 0.8, -1.0, -0.0, -0.2, 0.8], 'reachable_front': [-1.0, -0.2, -0.8, -0.2, 0.2, 1.0], 'reachable_bottom': [-0.6, 0.6, -0.8, -0.0, -0.0, 1.0]},
+                             'tiago_dual_rotslide': {'path': '/envs/robots/tiago/tiago_dual_mygym_rotslide.urdf', 'position': np.array([-0.3, 0.0, -0.72]), 'orientation': [0.0, 0.0, 0.0], 'default_joint_ori': [0.0, 0.0, 0.35, 0.11, -1.18, 1.61, 1.72, 1.18, -1.41, 1.7, 0.05, 0.05], 'ee_pos': [0.0009, -0.3985, 0.3127], 'ee_ori': [0.0074, -0.0071, 0.0011], 'ee_quat_ori': [0.0037, -0.0036, 0.0005, 1.0], 'fixed': True, 'volume': [[-0.6, -1.0, -0.0], [0.8, 0.4, 0.4]], 'reachable': [-0.6, 0.8, -1.0, 0.4, -0.0, 0.4], 'reachable_top': [-0.8, 0.6, -1.0, 0.4, -0.2, 0.2], 'reachable_left': [-0.4, 0.6, -0.8, 0.8, -0.0, 0.6], 'reachable_right': [-1.0, 0.6, -1.0, 0.2, -0.0, 0.6], 'reachable_back': [-0.6, 0.6, -1.0, 0.4, -0.0, 0.8], 'reachable_front': [-0.2, -0.0, -0.8, -0.0, -0.4, 0.8], 'reachable_bottom': [-0.6, 0.6, -1.0, 0.8, 0.2, 1.0]},
+                             'tiago_dual_rotslide2': {'path': '/envs/robots/tiago/tiago_dual_mygym_rotslide2.urdf', 'position': np.array([-0.3, 0.0, -0.72]), 'orientation': [0.0, 0.0, 0.0], 'default_joint_ori': [0.0, 0.0, 0.0, 0.35, 0.11, -1.18, 1.61, 1.72, 1.18, -1.41, 1.7, 0.05, 0.05], 'ee_pos': [0.0009, -0.3985, 0.3127], 'ee_ori': [0.0074, -0.0071, 0.001], 'ee_quat_ori': [0.0037, -0.0036, 0.0005, 1.0], 'fixed': True, 'volume': [[-1.0, -1.0, -0.0], [-0.0, 0.2, 0.2]], 'reachable': [-1.0, -0.0, -1.0, 0.2, -0.0, 0.2], 'reachable_top': [-1.0, -0.0, -1.0, 0.2, -0.0, 0.2], 'reachable_left': [-1.0, -0.0, -0.8, 0.2, 0.2, 0.4], 'reachable_back': [-0.8, 0.4, -1.0, 0.2, 0.4, 0.8], 'reachable_bottom': [-1.0, -0.4, -0.8, -0.4, 0.2, 0.4]},
+                             'ur3': {'path': '/envs/robots/universal_robots/urdf/ur3.urdf', 'position': np.array([0.0, -0.02, -0.041]), 'orientation': [0.0, 0.0, 0.0], 'default_joint_ori': [0.6, -1.9, 0.67, -0.34, -1.57, 0.6], 'ee_pos': [-0.0, 0.1158, 0.4104], 'ee_ori': [-0.0, 0.0001, -0.0], 'ee_quat_ori': [-0.0, 0.0, -0.0, 1.0], 'fixed': True, 'volume': [[-0.2, -0.2, -0.0], [0.4, 0.2, 0.4]], 'reachable': [-0.2, 0.4, -0.2, 0.2, -0.0, 0.4], 'reachable_top': [-0.2, 0.4, -0.4, 0.4, -0.4, 0.4], 'reachable_left': [-0.4, 0.4, -0.4, 0.6, -0.2, 0.6], 'reachable_right': [-0.0, 0.4, -0.6, -0.0, -0.2, 0.4], 'reachable_back': [-0.0, 0.6, -0.4, 0.4, -0.2, 0.6], 'reachable_front': [-0.6, -0.0, -0.4, 0.4, -0.2, 0.6], 'reachable_bottom': [-0.4, 0.4, -0.4, 0.4, -0.0, 0.6]},
+                             'ur10': {'path': '/envs/robots/universal_robots/urdf/ur10.urdf', 'position': np.array([0.0, 0.0, 0.0]), 'orientation': [0.0, 0.0, 0.0], 'default_joint_ori': [-1.34, -2.16, 1.07, -0.48, -1.57, -1.34], 'ee_pos': [0.1686, 0.0, 1.0], 'ee_ori': [-0.0003, 0.0, -0.0], 'ee_quat_ori': [-0.0001, 0.0, -0.0, 1.0], 'fixed': True, 'volume': [[-1.0, -1.0, -1.0], [1.0, 1.0, 1.0]], 'reachable': [-1.0, 1.0, -1.0, 1.0, -1.0, 1.0], 'reachable_top': [-1.0, 1.0, -1.0, 1.0, -1.0, 1.0], 'reachable_left': [-1.0, 1.0, -1.0, 1.0, -1.0, 1.0], 'reachable_right': [-1.0, 1.0, -1.0, 1.0, -0.8, 1.0], 'reachable_back': [-1.0, 1.0, -1.0, 1.0, -1.0, 1.0], 'reachable_front': [-1.0, 1.0, -1.0, 1.0, -1.0, 1.0], 'reachable_bottom': [-1.0, 1.0, -1.0, 1.0, -0.8, 1.0]},
+                             'walker': {'path': '/envs/robots/ubtech/tiangong2pro_urdf/urdf/tiangong2.0_pro_with_hands.urdf', 'position': np.array([-0.3, 0.0, 0.0]), 'orientation': [0.0, 0.0, 0], 'default_joint_ori': [-0.01, 0.79, -1.68, -1.22, -1.92, -0.14, 0.48, 0.38, -0.0, 0.35, 0.18, 0.09, 0.08], 'ee_pos': [0.1479, -0.4106, 0.4994], 'ee_ori': [0.0004, 0.013, 0.0004], 'ee_quat_ori': [0.0002, 0.0065, 0.0002, 1.0], 'volume': [[-1.0, -0.8, -0.0], [0.6, 0.6, 1.0]], 'reachable': [-1.0, 0.6, -0.8, 0.6, -0.0, 1.0], 'reachable_top': [-0.6, 0.6, -0.6, 0.8, 0.2, 0.8], 'reachable_left': [-0.8, 0.6, -0.6, 0.8, -0.0, 0.8], 'reachable_right': [-0.6, 0.6, -0.6, 0.8, -0.0, 0.8], 'reachable_back': [-1.0, 0.4, -0.8, 0.6, -0.0, 1.0], 'reachable_front': [-1.0, 0.4, -0.8, 0.8, -0.2, 0.8], 'reachable_bottom': [-0.6, 0.6, -0.8, 0.8, -0.0, 1.0]},
+                             'S2': {'path': '/envs/robots/ubtech/S2.urdf', 'position': np.array([-0.3, 0.0, 0.2]), 'orientation': [0.0, 0.0, 0], 'default_joint_ori': [-0.04, 0.35, -1.41, -0.34, -1.56, 0.07, -0.09, 0.06, 0.34, 0.07, 0.07, 0.08, 0.76], 'ee_pos': [0.1209, -0.5598, 0.4936], 'ee_ori': [-0.0011, 0.0755, -0.0131], 'ee_quat_ori': [-0.0003, 0.0378, -0.0065, 0.9993], 'reachable': [-1.0, 0.6, -0.8, 0.8, -0.0, 1.0], 'reachable_top': [-0.4, 0.6, -0.6, 0.8, -0.0, 0.8], 'reachable_left': [-0.6, 0.6, -0.6, 0.6, 0.2, 0.8], 'reachable_right': [-1.0, 0.6, -0.6, 0.8, 0.2, 1.0], 'reachable_back': [-1.0, 0.6, -0.8, 0.6, 0.6, 1.0], 'reachable_front': [-1.0, 0.4, -0.8, 0.6, -0.2, 1.0], 'reachable_bottom': [-0.4, 0.6, -0.6, 0.4, -0.0, 0.6]},
+                             'yumi': {'path': '/envs/robots/abb/yumi/urdf/yumi.urdf', 'position': np.array([0.0, 0.0, 0.0]), 'orientation': [0.0, 0.0, 0.0], 'default_joint_ori': [-0.4, -2.29, -0.13, 0.19, -0.95, 2.41, -3.99, 0.02, 0.02, 1.08, -1.68, 1.05, -0.09, 0.49, 2.07, -1.51, 0.03, 0.02], 'ee_pos': [-0.0006, 0.3054, 0.7052], 'ee_ori': [-0.0, 0.0001, 0.0001], 'ee_quat_ori': [-0.0, 0.0, 0.0001, 1.0], 'fixed': True, 'reachable_top': [0.6, 0.6, -0.2, -0.2, 0.4, 0.4], 'reachable_left': [0.4, 0.4, -0.2, -0.2, 0.4, 0.4], 'reachable_bottom': [0.2, 0.2, -0.0, -0.0, 0.2, 0.2]},
                              }
     return r_dict
 

diff --git a/myGym/unittest/test_robot_reachability.py b/myGym/unittest/test_robot_reachability.py
@@ -141,13 +141,17 @@ def reset_robot_to_home(robot_id, end_effector_idx, joint_idxs, robot_info):
     return joint_angles
 
 
-def update_robot_volume_in_helpers(robot_key, bbox_min, bbox_max, helpers_path):
+def update_robot_volume_in_helpers(robot_key, bbox_min, bbox_max, helpers_path, volume_key='reachable'):
     """Update or add volume bounds for a robot entry in utils/helpers.py r_dict."""
     if bbox_min is None or bbox_max is None:
         return False
 
-    volume_value = [[round(float(v), 4) for v in bbox_min], [round(float(v), 4) for v in bbox_max]]
-    volume_text = f"'volume': {volume_value}"
+    volume_value = [
+        round(float(bbox_min[0]), 4), round(float(bbox_max[0]), 4),
+        round(float(bbox_min[1]), 4), round(float(bbox_max[1]), 4),
+        round(float(bbox_min[2]), 4), round(float(bbox_max[2]), 4),
+    ]
+    volume_text = f"'{volume_key}': {volume_value}"
 
     with open(helpers_path, "r", encoding="utf-8") as f:
         lines = f.readlines()
@@ -158,9 +162,9 @@ def update_robot_volume_in_helpers(robot_key, bbox_min, bbox_max, helpers_path):
         if robot_marker not in line:
             continue
 
-        if "'volume':" in line:
+        if f"'{volume_key}':" in line:
             lines[i] = re.sub(
-                r"'volume':\s*\[\s*\[[^\]]*\]\s*,\s*\[[^\]]*\]\s*\]",
+                rf"'{re.escape(volume_key)}':\s*\[[^\]]*\]",
                 volume_text,
                 line,
             )
@@ -953,6 +957,7 @@ def test_robot_reachability(robot_key, r_dict, args):
     
     # Test reachability for each point
     reachable_points = []
+    reachable_points_per_grasp = {grasp_name: [] for grasp_name in GRASP_ORDER}
     point_grasp_stats = []
     grasp_summary = {grasp_name: {"reachable": 0, "tested": 0} for grasp_name in GRASP_ORDER}
     
@@ -985,6 +990,7 @@ def test_robot_reachability(robot_key, r_dict, args):
                 grasp_summary[grasp_name]["tested"] += 1
                 if grasp_reachable:
                     grasp_summary[grasp_name]["reachable"] += 1
+                    reachable_points_per_grasp[grasp_name].append(point)
         else:
             grasp_results = None
             is_reachable = test_reachability(
@@ -1046,12 +1052,21 @@ def test_robot_reachability(robot_key, r_dict, args):
     bbox_min, bbox_max = compute_bounding_box(reachable_points)
 
     # Persist reachable volume bounds into helpers r_dict only when requested.
-    if args.store_volume and bbox_min is not None and bbox_max is not None:
+    if args.store_volume:
         helpers_path = os.path.join(base_dir, "utils", "helpers.py")
-        if update_robot_volume_in_helpers(robot_key, bbox_min, bbox_max, helpers_path):
-            print(f"Updated volume in helpers.py for robot '{robot_key}'")
-        else:
-            print(f"Warning: Could not update volume in helpers.py for robot '{robot_key}'")
+        if args.all_grasps:
+            for grasp_name in GRASP_ORDER:
+                g_bbox_min, g_bbox_max = compute_bounding_box(reachable_points_per_grasp[grasp_name])
+                vkey = 'reachable' if grasp_name == 'any' else f"reachable_{grasp_name}"
+                if update_robot_volume_in_helpers(robot_key, g_bbox_min, g_bbox_max, helpers_path, volume_key=vkey):
+                    print(f"Updated {vkey} in helpers.py for robot '{robot_key}'")
+                else:
+                    print(f"Warning: Could not update {vkey} in helpers.py for robot '{robot_key}'")
+        elif bbox_min is not None and bbox_max is not None:
+            if update_robot_volume_in_helpers(robot_key, bbox_min, bbox_max, helpers_path):
+                print(f"Updated reachable in helpers.py for robot '{robot_key}'")
+            else:
+                print(f"Warning: Could not update reachable in helpers.py for robot '{robot_key}'")
     
     # Get robot kinematic tree for visualization
     robot_links = get_robot_kinematic_tree(robot_id)
@@ -1073,29 +1088,29 @@ def test_robot_reachability(robot_key, r_dict, args):
             ratio = (reachable / tested * 100.0) if tested else 0.0
             print(f"  {grasp_name:>6}: {reachable}/{tested} ({ratio:.2f}%)")
 
-        grasp_report_path = f"./unittest/reachability_{robot_key}_grasps.json"
-        grasp_report = {
-            "robot": robot_key,
-            "workspace": workspace_key,
-            "tested_min": list(map(float, args.min)),
-            "tested_max": list(map(float, args.max)),
-            "step": float(args.step),
-            "threshold": float(args.threshold),
-            "orientation_any": "IK called without orientation parameter",
-            "grasp_eulers": {name: [float(v) for v in euler] for name, euler in GRASP_EULERS.items()},
-            "point_statistics": point_grasp_stats,
-            "summary": {
-                name: {
-                    "reachable": int(data["reachable"]),
-                    "tested": int(data["tested"]),
-                    "ratio": (data["reachable"] / data["tested"] if data["tested"] else 0.0),
-                }
-                for name, data in grasp_summary.items()
-            },
-        }
-        with open(grasp_report_path, "w", encoding="utf-8") as report_file:
-            json.dump(grasp_report, report_file, indent=2)
-        print(f"Per-point grasp statistics saved to {grasp_report_path}")
+        #grasp_report_path = f"./unittest/reachability_{robot_key}_grasps.json"
+        #grasp_report = {
+        #    "robot": robot_key,
+        #    "workspace": workspace_key,
+        #    "tested_min": list(map(float, args.min)),
+        #    "tested_max": list(map(float, args.max)),
+        #    "step": float(args.step),
+        #    "threshold": float(args.threshold),
+        #    "orientation_any": "IK called without orientation parameter",
+        #    "grasp_eulers": {name: [float(v) for v in euler] for name, euler in GRASP_EULERS.items()},
+        #    "point_statistics": point_grasp_stats,
+        #    "summary": {
+        #        name: {
+        #            "reachable": int(data["reachable"]),
+        #            "tested": int(data["tested"]),
+        #            "ratio": (data["reachable"] / data["tested"] if data["tested"] else 0.0),
+        #        }
+        #        for name, data in grasp_summary.items()
+        #    },
+        #}
+        #with open(grasp_report_path, "w", encoding="utf-8") as report_file:
+        #    json.dump(grasp_report, report_file, indent=2)
+        #print(f"Per-point grasp statistics saved to {grasp_report_path}")
     
     if bbox_min is not None and bbox_max is not None:
         print(f"\n3D Bounding Box of Reachable Volume:")
